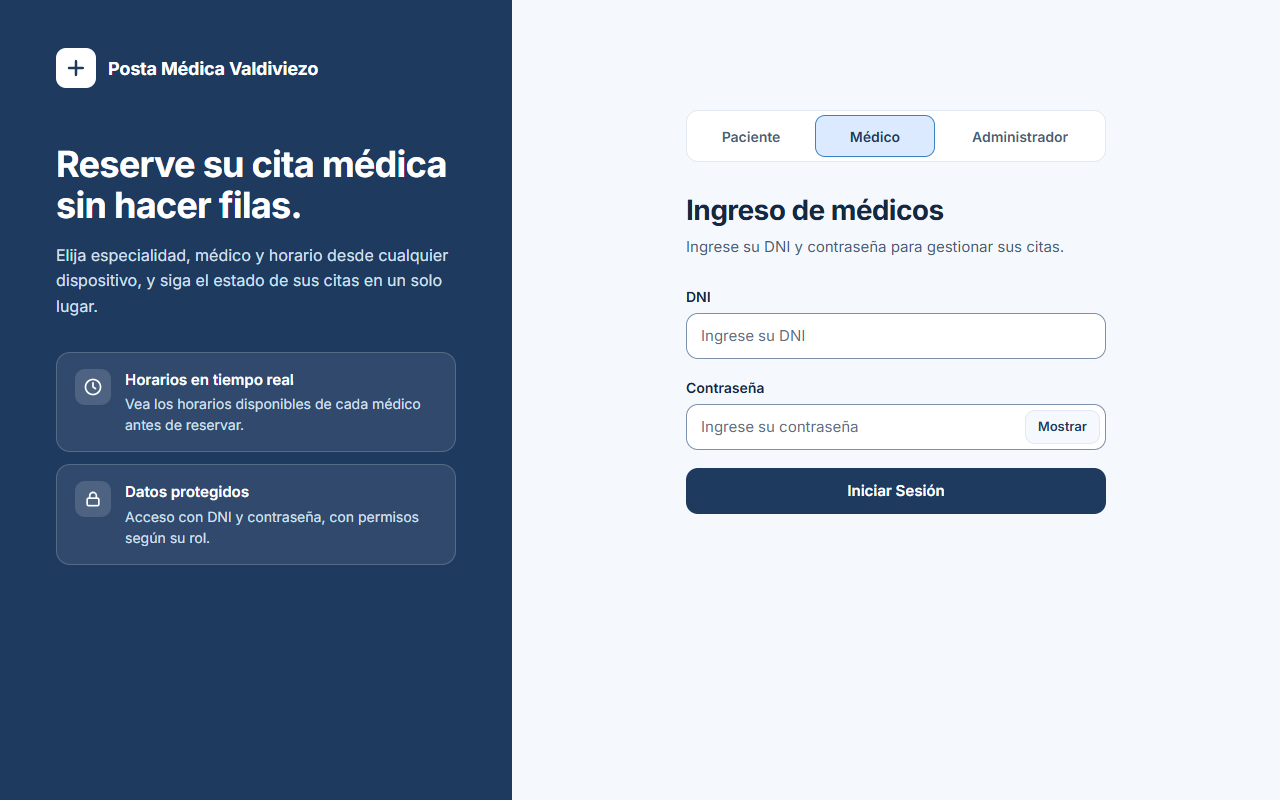
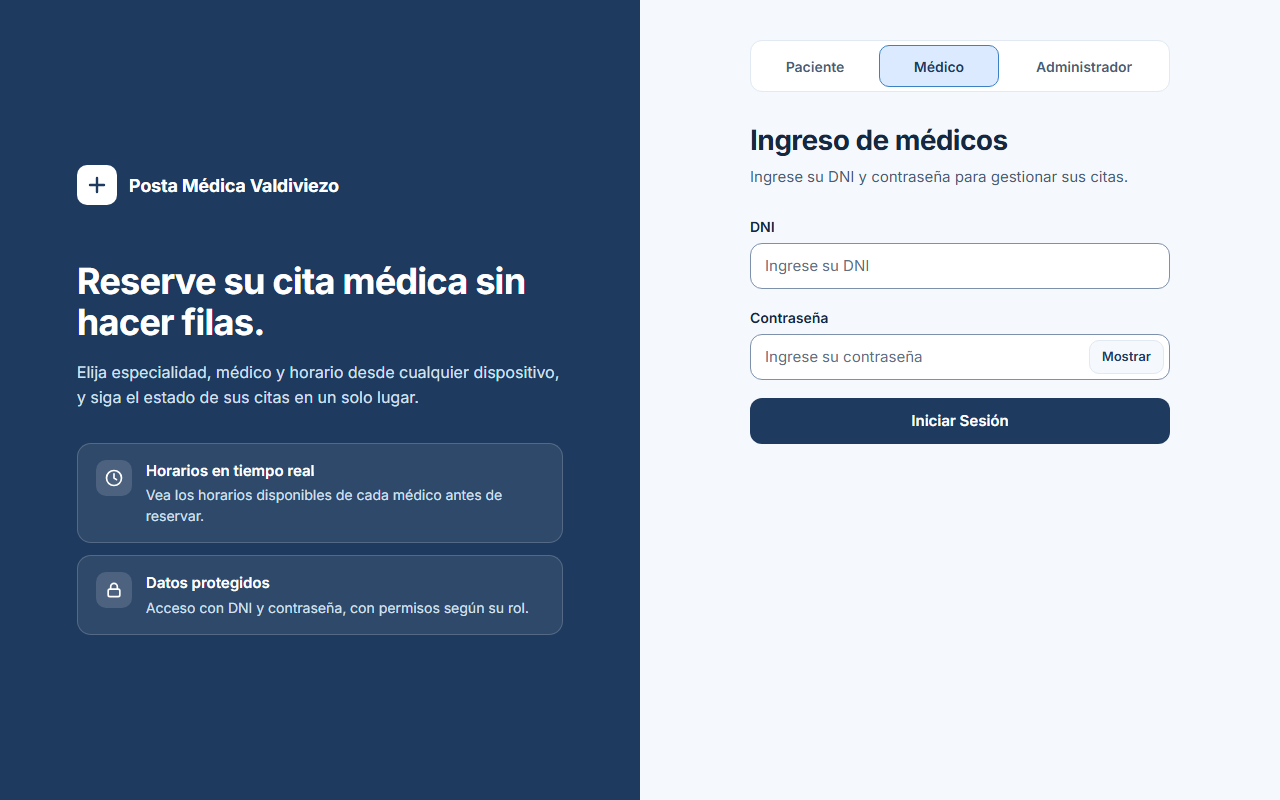
RFC-019: regresión completa igual a LB-11 y capturas de acceso regeneradas

diff --git a/docs/BITACORA.md b/docs/BITACORA.md
@@ -1691,3 +1691,9 @@ gh pr create --base develop --head master --title "Merge master (conteo de PR) e
 - **Hallazgo propio del proceso:** la prueba del registro falló la primera vez por un fallo mío en el propio test (leía `#nombres` en el login) y, a continuación, por un defecto real (700 px, punto 2); el segundo se corrigió en el código, el primero en el test nuevo.
 - **Evidencia (árbol de trabajo con cambios sin commit sobre `f861427`, 21:05–21:11):** `ng build` exit 0; frontend 32/32 y 73/73; **Playwright 25/25** (11 existentes + 5 E03 + 9 E04). Capturas revisadas a 360, 768, 1280 y 1920 px (login de paciente y registro); las de `docs/entrega/rediseno/` **no se regeneraron**.
 - **Regresión completa NO ejecutada (fallo de entorno, decide el usuario):** `correr.cjs` necesita los puertos 4200 y 8080 libres y recarga la BD; hay un `ng serve` (PID 30992) y un backend (PID 28448) en ejecución que no arranqué en esta tarea y el intento de detenerlos fue denegado por el entorno, así que no lo forcé. Sin registro de: `mvn test` (97) y la batería P01–P28 sobre BD recargada. Corrí solo la batería `bateria.cjs ... on` contra el backend ya encendido **sin recargar la BD**: no es comparable con LB-11 (ids 22→50 y P21 "NO EJECUTABLE: la cita 22 no está en Citas Pendientes"; P04 sigue fallando con el mismo 500). No se cuenta como regresión. Para cerrarla: liberar los puertos y correr `node e2e/bateria/correr.cjs <carpeta fuera del repo>`.
+
+### [2026-11-23 21:24–21:29] RFC-019 (Parte 1): regresión completa y capturas del ajuste de acceso
+- **Autorización del usuario:** detener el `ng serve` (PID 30992) y el backend (PID 28448) (el usuario indicó que los arrancó una sesión anterior de Claude). Detenidos a las 21:24:34 con `taskkill`.
+- **Regresión completa** (`node e2e/bateria/correr.cjs` a una carpeta fuera del repo, HEAD `b24563c`, 0 cambios sin commit, 21:24:39–21:28:01): `ng build` exit 0; frontend 32/32 y 73/73; `mvn test` 97/97 (0 fallos); Playwright **25/25**; batería P01–P28 encendida y apagada con la BD recargada: **diff vacío contra la corrida de LB-11** (sin líneas "# hora" ni tokens) en `bateria.txt` y `bateria-apagado.txt`; P04 sigue fallando con el mismo 500 (H-005). Resultado: igual a LB-11 (27 de 28, falla solo P04). Esto cierra el punto 6 de la revisión y reemplaza la nota "Regresión completa NO ejecutada" de la entrada anterior.
+- **Capturas:** `docs/entrega/rediseno/despues-*` regeneradas con `capturas.cjs` a 360, 768, 1280 y 1920 px (24 PNG; se regeneró también 768 para que no quedara con el diseño anterior).
+- **Estado del entorno:** al terminar se dejaron levantados el backend (`mvnw spring-boot:run`, puerto 8080) y el frontend (`ng serve`, puerto 4200), arrancados por Claude en esta sesión, para la revisión del usuario en el navegador. La BD local quedó recargada por la corrida (21 citas).
